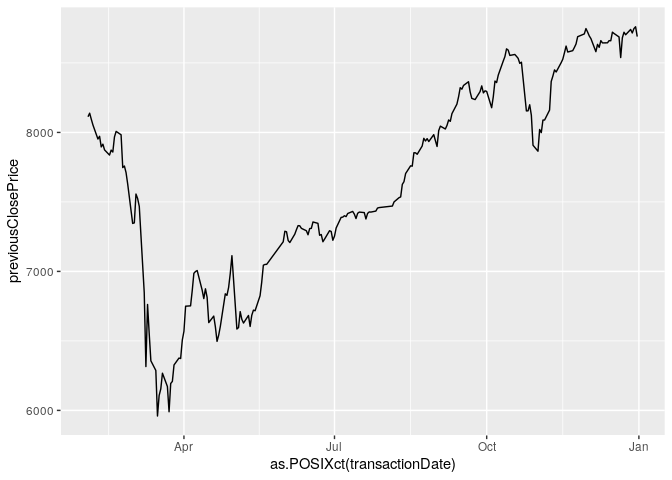
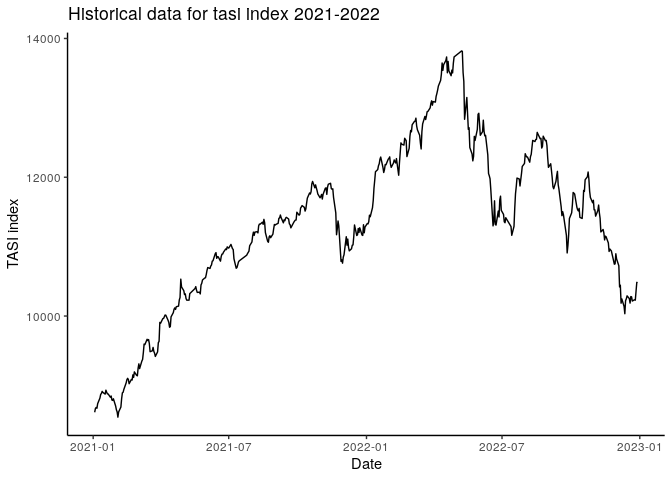
official release of 2.1

diff --git a/README.md b/README.md
@@ -30,12 +30,9 @@ library("tasi")
 library("ggplot2")
 library("magrittr")
 
-df <- get_index_records("2020-02-03","2021-01-02")
-#> Warning in min.default(structure(numeric(0), class = "Date"), na.rm = FALSE):
-#> no non-missing arguments to min; returning Inf
-#> Warning in max.default(structure(numeric(0), class = "Date"), na.rm = FALSE):
-#> no non-missing arguments to max; returning -Inf
-df %>%  ggplot(mapping = aes(x = as.POSIXct(transactionDate), y = previousClosePrice)) + geom_line()
+df <- get_index_records("2021-01-01","2022-12-31")
+df %>%  ggplot(mapping = aes(x = as.POSIXct(transactionDate), y = previousClosePrice)) + geom_line() + 
+  labs(title = "Historical data for tasi index 2021-2022", x = "Date", y = "TASI index") + theme_classic()
 ```
 
 <img src="man/figures/README-basic example-1.png" width="100%" />
@@ -69,7 +66,7 @@ library("dplyr")
 
 income_df <- get_income_statement(1180, period_type = "q") # q stands for quarterly.
 
-opts <-options(knitr.kable.NA = "-")
+opts <- options(knitr.kable.NA = "-")
 income_df %>% knitr::kable(format.args = list(big.mark = ",", scientific = FALSE))
 ```
 
